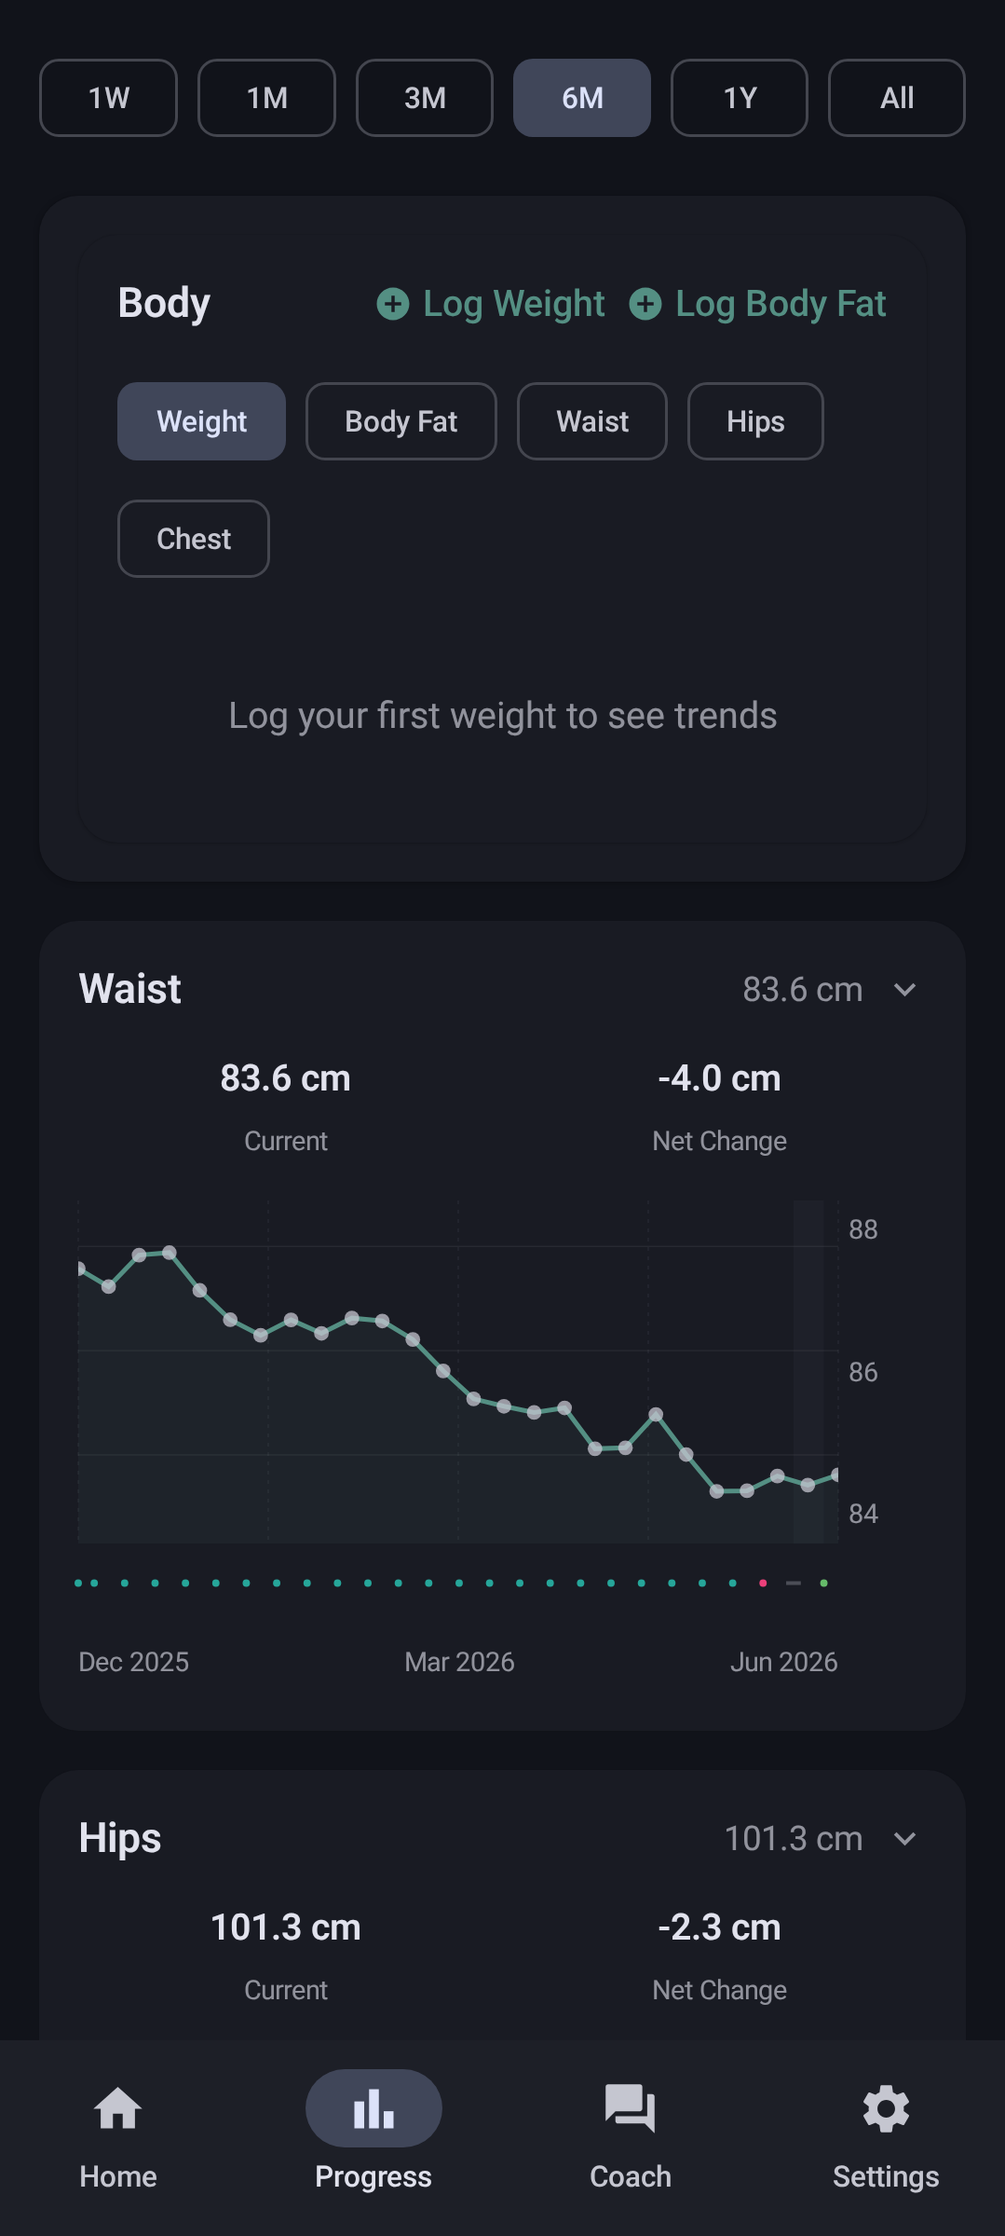
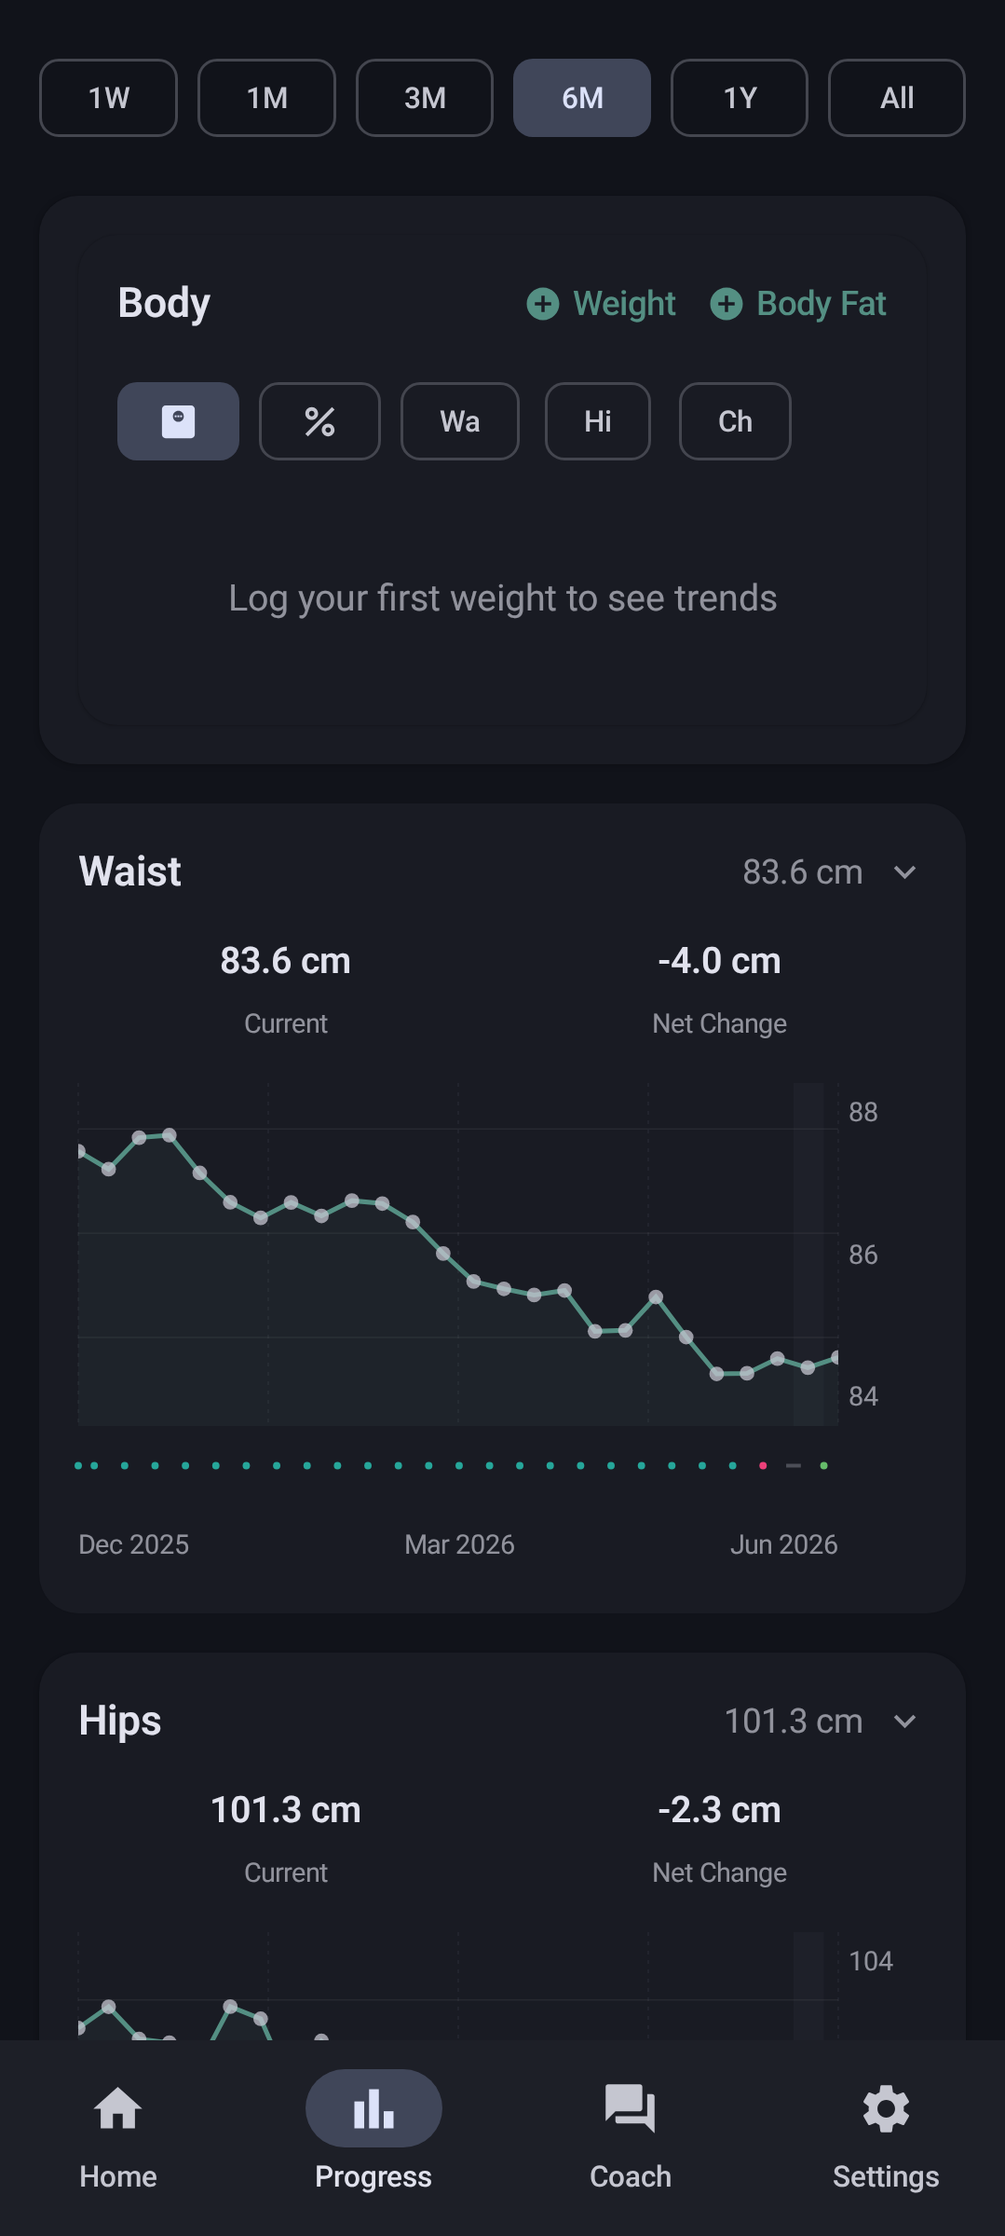
Progress body card: compact series chips, faded raw dots, shorter add actions
Weight and body fat toggles use scale/percent icons, measurement sites use localized short labels, and the add actions read Weight/Body fat with a plus icon, right-aligned against the title. Raw readings take a 55% shade of their series color. Adds a Robolectric layout/a11y gate, refreshes Progress screenshots, and records the change in the 5.8.0 changelog.

diff --git a/android/app/src/main/java/app/chompass/ui/progress/ProgressBodySection.kt b/android/app/src/main/java/app/chompass/ui/progress/ProgressBodySection.kt
@@ -16,6 +16,8 @@ import androidx.compose.foundation.layout.width
 import androidx.compose.foundation.shape.CircleShape
 import androidx.compose.material.icons.Icons
 import androidx.compose.material.icons.filled.AddCircle
+import androidx.compose.material.icons.filled.MonitorWeight
+import androidx.compose.material.icons.filled.Percent
 import androidx.compose.material3.FilterChip
 import androidx.compose.material3.Icon
 import androidx.compose.material3.MaterialTheme
@@ -29,6 +31,7 @@ import androidx.compose.runtime.remember
 import androidx.compose.ui.Alignment
 import androidx.compose.ui.Modifier
 import androidx.compose.ui.graphics.Color
+import androidx.compose.ui.graphics.vector.ImageVector
 import androidx.compose.ui.res.stringResource
 import androidx.compose.ui.text.font.FontWeight
 import androidx.compose.ui.unit.dp
@@ -101,6 +104,7 @@ internal fun BodySection(
     val weightLabel = stringResource(R.string.progress_metric_weight)
     val bodyFatLabel = stringResource(R.string.progress_metric_body_fat)
     val siteLabels = sites.associate { it.storageId to stringResource(it.labelRes) }
+    val siteShortLabels = sites.associate { it.storageId to stringResource(it.shortLabelRes) }
     val selectedSites = remember(sites, selectedKeys) { sites.filter { it.storageId in selectedKeys } }
 
     val model = remember(
@@ -159,12 +163,18 @@ internal fun BodySection(
                     stringResource(R.string.progress_body_section),
                     fontSize = 17.sp,
                     fontWeight = FontWeight.SemiBold,
+                    maxLines = 1,
+                    modifier = Modifier.weight(1f),
                 )
-                Spacer(Modifier.weight(1f))
-                LogPill(stringResource(R.string.progress_log_weight), onLogWeight)
-                if (bodyFatAvailable) {
-                    Spacer(Modifier.width(8.dp))
-                    LogPill(stringResource(R.string.progress_log_body_fat), onLogBodyFat)
+                Row(
+                    verticalAlignment = Alignment.CenterVertically,
+                    horizontalArrangement = Arrangement.spacedBy(12.dp),
+                    modifier = Modifier.padding(start = 12.dp),
+                ) {
+                    LogPill(weightLabel, onLogWeight)
+                    if (bodyFatAvailable) {
+                        LogPill(bodyFatLabel, onLogBodyFat)
+                    }
                 }
             }
             Column(verticalArrangement = Arrangement.spacedBy(12.dp)) {
@@ -172,7 +182,8 @@ internal fun BodySection(
                     horizontalArrangement = Arrangement.spacedBy(8.dp),
                 ) {
                     SeriesChip(
-                        label = weightLabel,
+                        icon = Icons.Filled.MonitorWeight,
+                        accessibilityLabel = weightLabel,
                         selected = OVERLAY_KEY_WEIGHT in selectedKeys,
                         enabled = true,
                         onClick = {
@@ -184,7 +195,8 @@ internal fun BodySection(
                     )
                     if (bodyFatAvailable) {
                         SeriesChip(
-                            label = bodyFatLabel,
+                            icon = Icons.Filled.Percent,
+                            accessibilityLabel = bodyFatLabel,
                             selected = OVERLAY_KEY_BODY_FAT in selectedKeys,
                             enabled = true,
                             onClick = {
@@ -198,7 +210,8 @@ internal fun BodySection(
                     for (site in sites) {
                         val key = site.storageId
                         SeriesChip(
-                            label = siteLabels.getValue(key),
+                            label = siteShortLabels.getValue(key),
+                            accessibilityLabel = siteLabels.getValue(key),
                             selected = key in selectedKeys,
                             enabled = true,
                             onClick = {
@@ -290,13 +303,21 @@ private fun LogPill(label: String, onClick: () -> Unit) {
     ) {
         Icon(Icons.Filled.AddCircle, null, tint = AppColors.Calorie, modifier = Modifier.size(16.dp))
         Spacer(Modifier.width(4.dp))
-        Text(label, fontSize = 15.sp, fontWeight = FontWeight.Medium, color = AppColors.Calorie)
+        Text(
+            label,
+            fontSize = 14.sp,
+            fontWeight = FontWeight.Medium,
+            color = AppColors.Calorie,
+            maxLines = 1,
+        )
     }
 }
 
 @Composable
 private fun SeriesChip(
-    label: String,
+    label: String? = null,
+    icon: ImageVector? = null,
+    accessibilityLabel: String,
     selected: Boolean,
     enabled: Boolean,
     onClick: () -> Unit,
@@ -306,13 +327,17 @@ private fun SeriesChip(
         onClick = onClick,
         enabled = enabled,
         label = {
-            Text(
-                label,
-                fontSize = 12.sp,
-                maxLines = 1,
-            )
+            if (icon != null) {
+                Icon(icon, contentDescription = null, modifier = Modifier.size(18.dp))
+            } else {
+                Text(
+                    label.orEmpty(),
+                    fontSize = 12.sp,
+                    maxLines = 1,
+                )
+            }
         },
-        modifier = Modifier.debugChipState(label, selected),
+        modifier = Modifier.chipAccessibility(accessibilityLabel, selected),
     )
 }
 

diff --git a/android/app/src/test/java/app/chompass/ui/progress/ProgressBodySectionLayoutTest.kt b/android/app/src/test/java/app/chompass/ui/progress/ProgressBodySectionLayoutTest.kt
@@ -1,0 +1,101 @@
+package app.chompass.ui.progress
+
+import android.app.Application
+import androidx.compose.ui.semantics.SemanticsNode
+import androidx.compose.ui.test.assertIsDisplayed
+import androidx.compose.ui.test.junit4.createComposeRule
+import androidx.compose.ui.test.onNodeWithContentDescription
+import androidx.compose.ui.test.onNodeWithText
+import androidx.test.ext.junit.runners.AndroidJUnit4
+import app.chompass.models.BodyFatEntry
+import app.chompass.models.BodyMeasurement
+import app.chompass.models.WeightEntry
+import app.chompass.ui.theme.AppThemeColor
+import app.chompass.ui.theme.ChompassTheme
+import java.time.Instant
+import org.junit.Rule
+import org.junit.Test
+import org.junit.runner.RunWith
+import org.robolectric.annotation.Config
+import org.robolectric.annotation.GraphicsMode
+
+/**
+ * Layout gate for the Progress body card (2026-10-19): the verbose chips
+ * (`Gewicht` / `Körperfett` / site names) wrapped the toggle row and the long
+ * `Gewicht eintragen` / `Körperfett erfassen` pills crowded the `Körper`
+ * title. Weight and body fat now use symbol chips, sites use short labels, and
+ * the two add actions stay right-aligned with their full names announced.
+ */
+@RunWith(AndroidJUnit4::class)
+@Config(sdk = [34], application = Application::class, qualifiers = "de-w411dp-h941dp")
+@GraphicsMode(GraphicsMode.Mode.NATIVE)
+class ProgressBodySectionLayoutTest {
+    @get:Rule
+    val composeRule = createComposeRule()
+
+    private val now = Instant.parse("2026-10-18T08:00:00Z")
+
+    private fun setBodySection() {
+        composeRule.setContent {
+            ChompassTheme(darkTheme = true, themeColor = AppThemeColor.TEAL) {
+                BodySection(
+                    weights = listOf(WeightEntry(date = now, weightKg = 73.5)),
+                    bodyFats = listOf(BodyFatEntry(date = now, bodyFatFraction = 0.174)),
+                    measurements = listOf(BodyMeasurement(date = now, waistCm = 84.0)),
+                    sites = listOf(BodyMeasurement.Site.WAIST),
+                    selectedKeys = setOf(OVERLAY_KEY_WEIGHT, OVERLAY_KEY_BODY_FAT, "waist"),
+                    onToggleSeries = {},
+                    weightStats = WeightSummaryStats(currentKg = 73.5, netChangeKg = -1.5, averageKg = 73.9),
+                    bodyFatStats = BodyFatSummaryStats(
+                        currentFraction = 0.174,
+                        netChangePercent = -0.8,
+                        averagePercent = 17.9,
+                    ),
+                    profileBodyFatFraction = 0.174,
+                    goalWeightKg = 70.0,
+                    goalBodyFatFraction = 0.15,
+                    useMetricWeight = true,
+                    useMetricLength = true,
+                    bodyFatAvailable = true,
+                )
+            }
+        }
+    }
+
+    private fun boundsOf(text: String): SemanticsNode =
+        composeRule.onNodeWithText(text).fetchSemanticsNode()
+
+    @Test
+    fun addActionsUseShortLabelsAndStayRightAligned() {
+        setBodySection()
+
+        val title = boundsOf("Körper")
+        val weightAction = boundsOf("Gewicht")
+        val bodyFatAction = boundsOf("Körperfett")
+
+        composeRule.onNodeWithText("Gewicht eintragen").assertDoesNotExist()
+        composeRule.onNodeWithText("Körperfett erfassen").assertDoesNotExist()
+        composeRule.onNodeWithText("Gewicht").assertIsDisplayed()
+        composeRule.onNodeWithText("Körperfett").assertIsDisplayed()
+
+        assert(weightAction.boundsInRoot.left > title.boundsInRoot.right) {
+            "weight action starts at ${weightAction.boundsInRoot.left}, title ends at ${title.boundsInRoot.right}"
+        }
+        assert(bodyFatAction.boundsInRoot.left > weightAction.boundsInRoot.right) {
+            "body-fat action is not to the right of the weight action"
+        }
+    }
+
+    @Test
+    fun compactChipsAnnounceFullSeriesNames() {
+        setBodySection()
+
+        // Debug builds append the selected state for uiautomator.
+        composeRule.onNodeWithContentDescription("Gewicht, selected=true").assertIsDisplayed()
+        composeRule.onNodeWithContentDescription("Körperfett, selected=true").assertIsDisplayed()
+        composeRule.onNodeWithContentDescription("Taille, selected=true").assertIsDisplayed()
+
+        // The site chip itself is abbreviated; the legend below keeps the name.
+        composeRule.onNodeWithText("Ta").assertIsDisplayed()
+    }
+}

diff --git a/android/app/src/main/java/app/chompass/ui/progress/ProgressCalorieSection.kt b/android/app/src/main/java/app/chompass/ui/progress/ProgressCalorieSection.kt
@@ -18,13 +18,19 @@ import androidx.compose.foundation.layout.Row
 import androidx.compose.foundation.layout.Spacer
 import androidx.compose.foundation.layout.fillMaxWidth
 import androidx.compose.foundation.layout.padding
+import androidx.compose.foundation.layout.size
+import androidx.compose.material.icons.Icons
+import androidx.compose.material.icons.filled.MonitorWeight
+import androidx.compose.material.icons.filled.Percent
 import androidx.compose.material3.FilterChip
+import androidx.compose.material3.Icon
 import androidx.compose.material3.MaterialTheme
 import androidx.compose.material3.Text
 import androidx.compose.runtime.Composable
 import androidx.compose.ui.Alignment
 import androidx.compose.ui.Modifier
 import androidx.compose.ui.graphics.Color
+import androidx.compose.ui.graphics.vector.ImageVector
 import androidx.compose.ui.res.pluralStringResource
 import androidx.compose.ui.res.stringResource
 import androidx.compose.ui.text.font.FontWeight
@@ -189,6 +195,7 @@ internal fun CalorieSection(
                         if (overlayWeights.isNotEmpty()) {
                             OverlayPickChip(
                                 label = stringResource(R.string.progress_metric_weight),
+                                icon = Icons.Filled.MonitorWeight,
                                 selected = effectiveKey == OVERLAY_KEY_WEIGHT,
                                 onClick = { onOverlayKeyChange(OVERLAY_KEY_WEIGHT) },
                             )
@@ -196,6 +203,7 @@ internal fun CalorieSection(
                         if (overlayBodyFats.isNotEmpty()) {
                             OverlayPickChip(
                                 label = stringResource(R.string.progress_metric_body_fat),
+                                icon = Icons.Filled.Percent,
                                 selected = effectiveKey == OVERLAY_KEY_BODY_FAT,
                                 onClick = { onOverlayKeyChange(OVERLAY_KEY_BODY_FAT) },
                             )
@@ -249,12 +257,19 @@ private fun overlayLegendLabel(key: String): Int = when (key) {
 private fun OverlayPickChip(
     label: String,
     selected: Boolean,
+    icon: ImageVector? = null,
     onClick: () -> Unit,
 ) {
     FilterChip(
         selected = selected,
         onClick = onClick,
-        label = { Text(label, fontSize = 12.sp, maxLines = 1) },
-        modifier = Modifier.debugChipState(label, selected),
+        label = {
+            if (icon != null) {
+                Icon(icon, contentDescription = null, modifier = Modifier.size(18.dp))
+            } else {
+                Text(label, fontSize = 12.sp, maxLines = 1)
+            }
+        },
+        modifier = Modifier.chipAccessibility(label, selected),
     )
 }

diff --git a/android/app/src/main/java/app/chompass/models/BodyMeasurement.kt b/android/app/src/main/java/app/chompass/models/BodyMeasurement.kt
@@ -141,11 +141,15 @@ data class BodyMeasurement(
     }
 
     /** The eight circumference sites, in display order. Used to render the per-site editor rows. */
-    enum class Site(val label: String, val labelRes: Int) {
-        NECK("Neck", R.string.measure_neck), WAIST("Waist", R.string.measure_waist),
-        HIPS("Hips", R.string.measure_hips), CHEST("Chest", R.string.measure_chest),
-        UPPER_ARM("Upper Arm", R.string.measure_upper_arm), THIGH("Thigh", R.string.measure_thigh),
-        CALF("Calf", R.string.measure_calf), WRIST("Wrist", R.string.measure_wrist);
+    enum class Site(val label: String, val labelRes: Int, val shortLabelRes: Int) {
+        NECK("Neck", R.string.measure_neck, R.string.measure_neck_short),
+        WAIST("Waist", R.string.measure_waist, R.string.measure_waist_short),
+        HIPS("Hips", R.string.measure_hips, R.string.measure_hips_short),
+        CHEST("Chest", R.string.measure_chest, R.string.measure_chest_short),
+        UPPER_ARM("Upper Arm", R.string.measure_upper_arm, R.string.measure_upper_arm_short),
+        THIGH("Thigh", R.string.measure_thigh, R.string.measure_thigh_short),
+        CALF("Calf", R.string.measure_calf, R.string.measure_calf_short),
+        WRIST("Wrist", R.string.measure_wrist, R.string.measure_wrist_short);
 
         /** Stable storage id for prefs (`neck`, `waist`, …); unknown ids are ignored on read. */
         val storageId: String get() = name.lowercase()

diff --git a/android/app/src/main/java/app/chompass/ui/progress/ProgressCharts.kt b/android/app/src/main/java/app/chompass/ui/progress/ProgressCharts.kt
@@ -713,7 +713,6 @@ internal fun OverlayChartCanvas(
     val zone = remember { ZoneId.systemDefault() }
     val untrackedSpans = rememberUntrackedSpans(model.xFromMs, model.tRange, untrackedDays)
     val bandColor = MaterialTheme.colorScheme.onSurface.copy(alpha = 0.05f)
-    val rawDotColor = MaterialTheme.colorScheme.onSurfaceVariant.copy(alpha = 0.75f)
     val gridColor = MaterialTheme.colorScheme.onSurface.copy(alpha = 0.10f)
     val secondaryColor = MaterialTheme.colorScheme.onSurface.copy(alpha = AppTextOpacity.Muted)
     val reveal = remember(model, immediate) { Animatable(if (immediate) 1f else 0f) }
@@ -877,7 +876,7 @@ internal fun OverlayChartCanvas(
                     if (s.showsDots && tailAlpha > 0f) {
                         s.points.forEach { p ->
                             drawCircle(
-                                rawDotColor.copy(alpha = 0.75f * tailAlpha),
+                                s.color.copy(alpha = 0.55f * tailAlpha),
                                 radius = 3.dp.toPx(),
                                 center = offsetOf(s, p),
                             )

diff --git a/android/app/src/main/java/app/chompass/ui/progress/ProgressPrimitives.kt b/android/app/src/main/java/app/chompass/ui/progress/ProgressPrimitives.kt
@@ -41,6 +41,15 @@ internal fun Modifier.debugChipState(label: String, selected: Boolean): Modifier
     if (BuildConfig.DEBUG) semantics { contentDescription = "$label, selected=$selected" }
     else this
 
+/**
+ * Chip semantics for labels that are symbols or abbreviations: the announced
+ * name stays the full series name, while debug builds append the selected
+ * state for uiautomator (Compose FilterChip always dumps selected="false").
+ */
+internal fun Modifier.chipAccessibility(label: String, selected: Boolean): Modifier =
+    if (BuildConfig.DEBUG) semantics { contentDescription = "$label, selected=$selected" }
+    else semantics { contentDescription = label }
+
 @Composable
 internal fun TimeRangePicker(selected: TimeRange, onSelect: (TimeRange) -> Unit) {
     Row(

diff --git a/docs/CHANGELOG.md b/docs/CHANGELOG.md
@@ -4,7 +4,7 @@ All notable changes to Chompass are documented here.
 
 Style: entries follow the release-text style guide (maintainer-local, not published; user-visible first, no emdashes, no internals). The version section is pasted verbatim onto the Codeberg release.
 
-## [5.8.0] - 2026-10-18
+## [5.8.0] - 2026-10-19
 
 ### Added
 
@@ -13,6 +13,10 @@ Style: entries follow the release-text style guide (maintainer-local, not publis
 - **The calorie card can overlay your trend** (Android): the daily calorie bars can draw your weight or body-fat trend behind them, with a legend and a tap tag that shows the real number next to the bar's calories.
 - **An adherence card on Progress** (Android): a summary of how closely your logged days landed on their calorie goals, overall, per day type, and per phase, with the share of days inside a ±100 kcal band.
 
+### Changed
+
+- **A tighter body card on Progress** (Android): the weight and body fat toggles are now a scale and a percent symbol, measurement sites use short labels, and the add actions are shortened to Weight and Body fat with a plus icon, right-aligned so they no longer crowd the section title. Raw weigh-ins and body-fat readings now take a faded shade of their series color, matching the calorie overlay's trend dots.
+
 ### Fixed
 
 - **Goal phases stay inside safe bounds** (Android): a phase target below the calorie floor is lifted to it on save, and the phase wheel can no longer spin below that floor or past the ceiling. The wheel now also shows correct bounds when the energy unit is kJ, and saving the first phase no longer wipes a keto-paused day-type plan: its Training and Rest days come back when the plan resumes.
@@ -20,7 +24,7 @@ Style: entries follow the release-text style guide (maintainer-local, not publis
 - **Phase edits clean up after themselves** (Android): shortening or deleting a phase now clears the per-day overrides on all days it no longer covers, including days far in the past. Phases that start far in the future apply automatically once their window comes within reach, without a re-save.
 - **Progress charts read true** (Android): the trend line on the calorie card sits on the bars' centers at every zoom level, tapping a week bar shows that week's average instead of an empty tag, single weigh-in days render centered, and the body badges no longer show "+0.0 kg" when the selected range has no weigh-ins.
 - **The weight chip on the body chart toggles again** (Android): turning weight off now leaves a chip you can tap back on, instead of a permanently selected button that ignored the saved selection. With every chip off, the card shows a short hint instead of an empty chart.
-- **A calmer body card header** (Android): the Body title no longer collapses the whole card when tapped. The collapse arrow is gone; the Log weight and Log body fat actions stay.
+- **A calmer body card header** (Android): the Body title no longer collapses the whole card when tapped. The collapse arrow is gone; the add actions stay.
 - **The calorie chart starts where your log starts** (Android): on the All range the chart now spans from your first logged meal to today instead of padding years of empty space.
 - **Daily calorie bars at every range** (Android): 6M, 1Y, and All keep one bar per day instead of rolling weeks up into weekly sums, so each day keeps its own color against its own goal.
 
